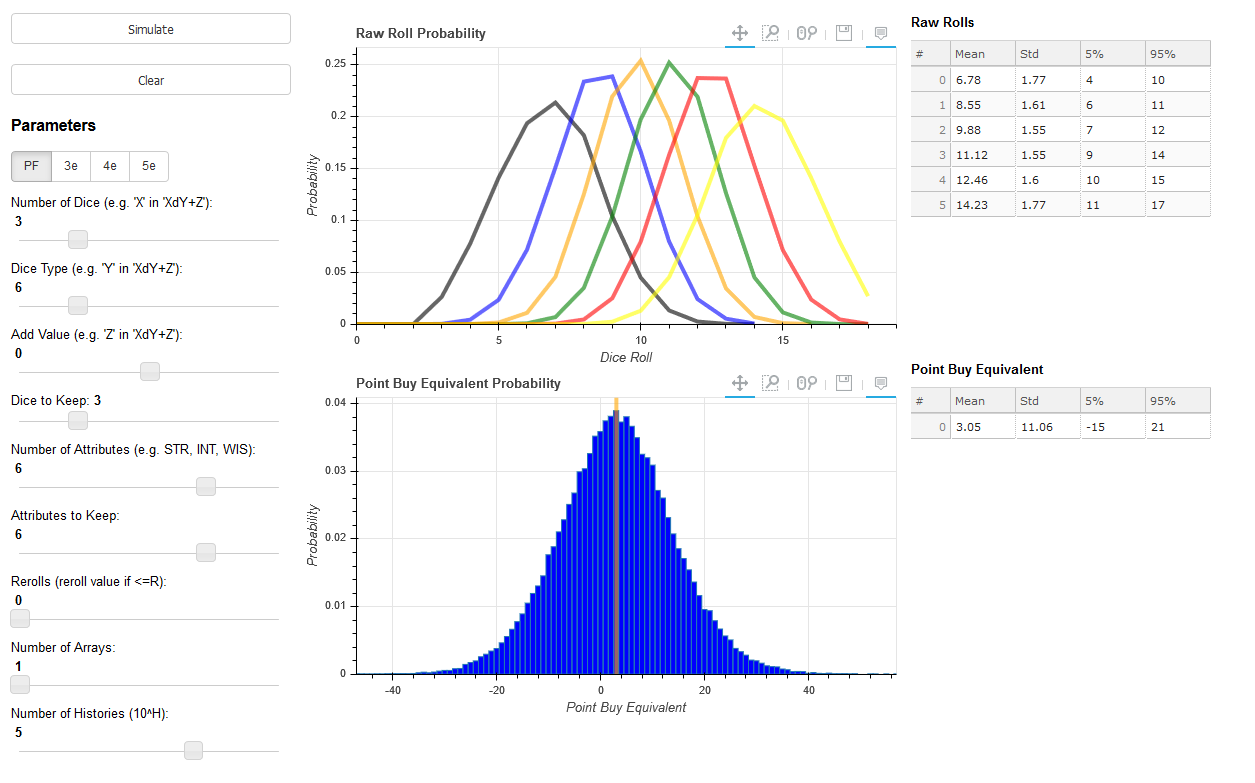
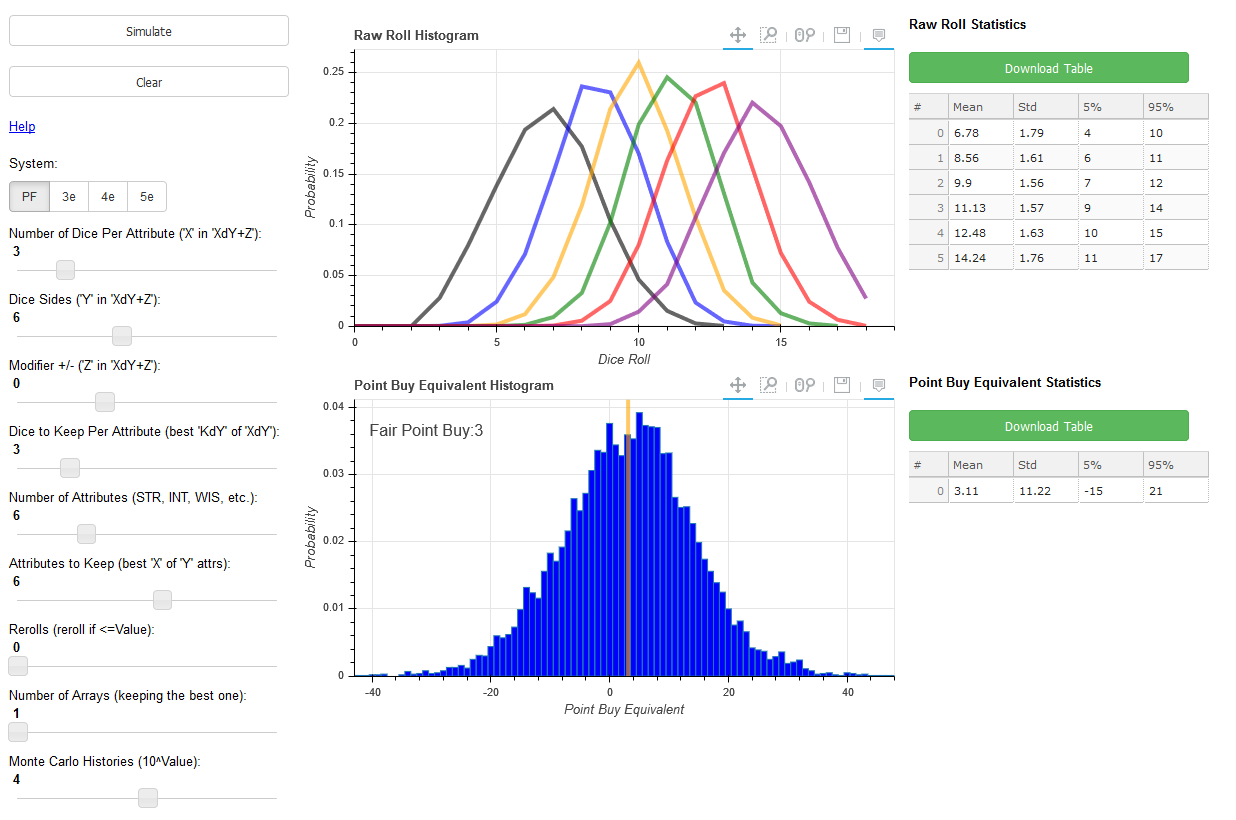
Updating Bokeh server screenshot and help link

diff --git a/bk/pypbe-bk.py b/bk/pypbe-bk.py
@@ -49,7 +49,7 @@ plot_pbe = figure(plot_height=350, plot_width=600, logo=None,
                   x_axis_label='Point Buy Equivalent', 
                   tools="pan,box_zoom,wheel_zoom,hover")
 plot_pbe.add_tools(SaveTool(name="pbe_hist.jpg"))
-label_logo = Div(text='<a href="https://github.com/drericstrong/pypbe">See Examples</a>')
+label_logo = Div(text='<a href="https://github.com/drericstrong/pypbe#custom-parameters">Help</a>')
 # Main Control Buttons
 plot_sim = Button(label="Simulate")
 plot_clear = Button(label="Clear")
@@ -112,7 +112,7 @@ def sim(num_dice, dice_type, keep_dice, add_val, num_attr, keep_attr, reroll,
             "be greater than the number of attributes."
         raise ValueError()
     if reroll >= dice_type:
-        plot_console.text = "ERROR: <br>Any dice roll less than the 'Reroll' value (to " + \
+        plot_console.text = "ERROR (Reroll): <br>Any dice roll less than the 'Reroll' value (to " + \
             "the left) will be rerolled, but you have specified a 'Reroll' " + \
             "value greater than or equal to the number of sides on the dice, " + \
             "meaning every dice will be rerolled forever. Please reduce the " + \
@@ -128,7 +128,7 @@ def sim(num_dice, dice_type, keep_dice, add_val, num_attr, keep_attr, reroll,
     low_def_val = min(pbe_vect.keys())
     high_def_val = max(pbe_vect.keys())
     if low_pos_val < low_def_val:
-        plot_console.text = "ERROR: <br>A typical Point Buy system is defined only for rolls " + \
+        plot_console.text = "ERROR (Low Value): <br>A typical Point Buy system is defined only for rolls " + \
             "between 3 and 18. For example, in PF, buying an '18' attribute costs " + \
             "17 in point buy, but you can't outright buy a '19' attribute (for most DMs). " + \
             "According to your selections to the left, the lowest possible roll is " + \
@@ -139,7 +139,7 @@ def sim(num_dice, dice_type, keep_dice, add_val, num_attr, keep_attr, reroll,
             "less than 3, please use the PyPBE Python module directly."
         raise ValueError()
     elif high_pos_val > high_def_val:
-        plot_console.text = "ERROR: <br>A typical Point Buy system is defined only for rolls " + \
+        plot_console.text = "ERROR (High Value): <br>A typical Point Buy system is defined only for rolls " + \
             "between 3 and 18. For example, in PF, buying an '18' attribute costs " + \
             "17 in point buy, but you can't outright buy a '19' attribute (for most DMs). " + \
             "According to your selections to the left, the highest possible roll is " + \
